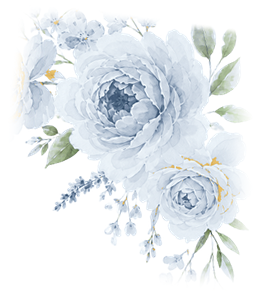
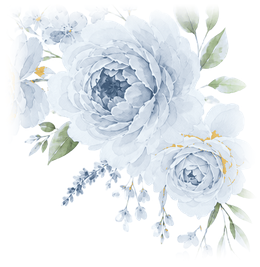
fix: alinear las flores laterales a la misma altura exactamente centradas

Changed region(s): [[0.0623, 0.03, 0.965, 0.9288], [0.2802, 0.0599, 0.3113, 0.0899], [0.0934, 0.5693, 0.1245, 0.5993]]

diff --git a/index.html b/index.html
@@ -22,7 +22,7 @@
   <!-- FontAwesome Icons -->
   <link rel="stylesheet" href="https://cdnjs.cloudflare.com/ajax/libs/font-awesome/6.5.1/css/all.min.css">
   
-  <link rel="stylesheet" href="css/styles.css?v=20261002-arena">
+  <link rel="stylesheet" href="css/styles.css?v=20261002-sideflorals">
 </head>
 <body class="theme-dusty-blue" style="background-color: #f5f0ea !important; background-image: linear-gradient(160deg, #f7f2eb 0%, #f0e8de 50%, #eae1d5 100%) !important; background-attachment: fixed !important;">
 

diff --git a/css/styles.css b/css/styles.css
@@ -383,6 +383,8 @@ body.theme-dusty-blue {
 
 .floral-flank {
   position: absolute;
+  top: 50%;
+  transform: translateY(-50%);
   pointer-events: none;
   z-index: 1;
   filter: drop-shadow(0 2px 8px rgba(0, 0, 0, 0.03));
@@ -390,14 +392,12 @@ body.theme-dusty-blue {
 
 .floral-flank-l {
   left: 14px;
-  bottom: 4px;
   width: 95px;
   height: auto;
 }
 
 .floral-flank-r {
   right: 14px;
-  top: 4px;
   width: 95px;
   height: auto;
 }
